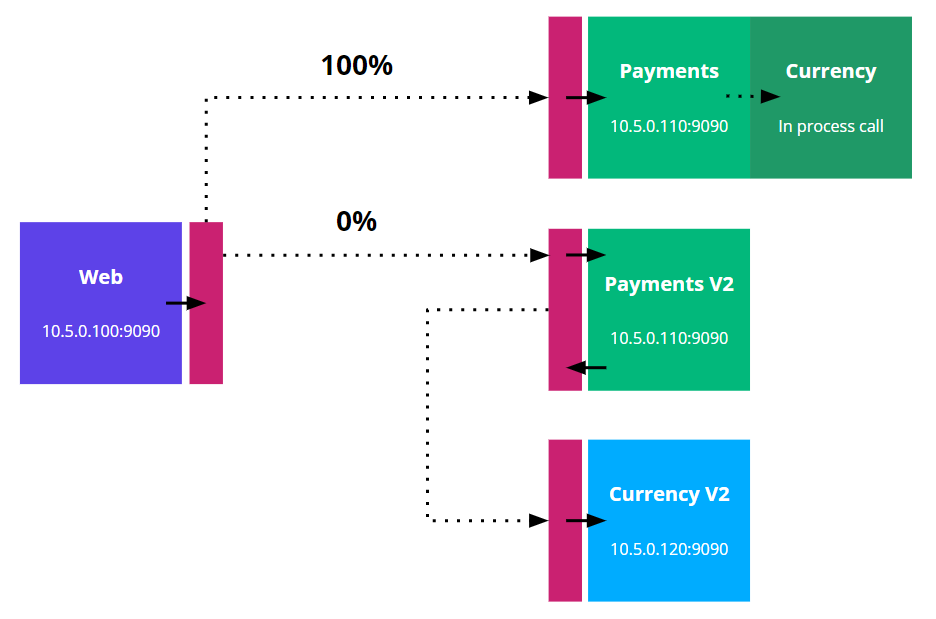
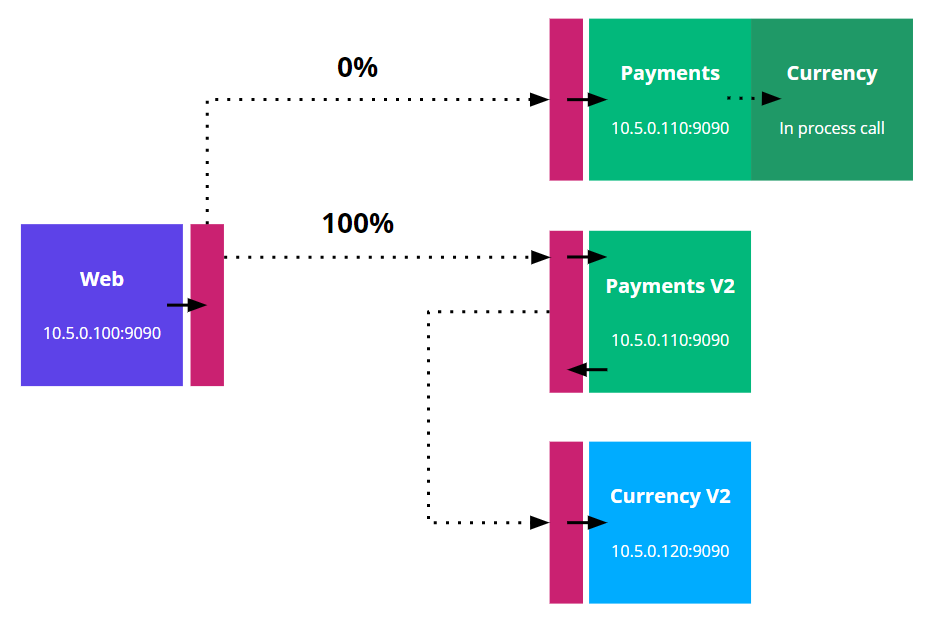
Add extra steps

diff --git a/docs/index.md b/docs/index.md
@@ -1,36 +1,223 @@
-We will need to set up the environment that will simulate Azure, containing an HCS cluster and a AKS cluster.
+---
+id: index
+title: "Moving to a Microservice World: Leveraging Consul on Azure"
+---
 
+This demo will guide you through migrating an application from a monolith to microservices, using Consul Service Mesh.
+
+# Set up the environment
+To get started, we will set up the environment that will simulate Azure, containing an HCS (HashiCorp Consul Service) cluster and an AKS (Azure Kubernetes Service) cluster.
 
 ```
 shipyard run azure
 ```
 
-Now that we have our cloud environment up and running, we can start to add our applications.
-In the initial situation we have 2 VMs running, one containing an inbound proxy called "web" and the other one containing our "payments" monolith.
+# Initial situation
+
+Now that we have our "cloud" environment up and running, we can start to add our applications.
+In the initial situation we have 2 "VMs" running, one containing an inbound proxy called "web" and the other one containing our "payments" monolith.
 The applications are configured statically, with web pointing directly to the ip address of payments.
 
+Because we want to be able to run this demo entirely on our local machine, we will be simulating VMs with fat containers.
+These Alpine containers will have 3 processes running, managed by Supervisor:
+- Application binary.
+- Consul agent, configured as a client.
+- Envoy sidecar proxy for the application.
+
+![Containers as VMs](https://github.com/eveld/hashidays/blob/master/docs/assets/fake_vm.png?raw=true)
+
+
 To spin up the two VMs we can create the resources located in the `v1` directory.
+
+![Initial Setup](https://github.com/eveld/hashidays/blob/master/docs/assets/initial_setup.png?raw=true)
 
 ```
 shipyard run v1
 ```
 
+# Consul Service Mesh 
+Remove the initial setup and replace it with a setup that uses Consul Service Mesh to do service discovery.
+This gives the additional benefit that all the traffic between our services is now encrypted through mTLS.
+
+![Consul Service Mesh](https://github.com/eveld/hashidays/blob/master/docs/assets/service_mesh.png?raw=true)
+
 ```
 shipyard destroy v1
+```
+```
 shipyard run v2
+```
 
+Set the protocol to HTTP in the service defaults for the payments service and the web service.
+```go
+Kind = "service-defaults"
+Name = "payments"
+Protocol = "http"
+```
+```
 consul config write v2/consul_service/payments_defaults.hcl
+```
+
+```go
+Kind = "service-defaults"
+Name = "web"
+Protocol = "http"
+```
+```
 consul config write v2/consul_service/web_defaults.hcl
 ```
 
+# First Microservice
+Now that we have our applications connected with a service mesh, we can start splitting off pieces of functionality into microservices.
+To start, we will take an isolated piece of functionality (the currency converter service) and turn it into a microservice.
+
+![Currency microservice](https://github.com/eveld/hashidays/blob/master/docs/assets/first_microservice.png?raw=true)
+
 ```
 shipyard run v3
-
-consul config write v3/currency_router.hcl
 ```
 
+Set the protocol to HTTP in the service defaults for the currency service, so we can make use of the L7 capabilities of Envoy.
+```go
+Kind = "service-defaults"
+Name = "currency"
+Protocol = "http"
+```
+```
+consul config write v3/consul_service/currency_defaults.hcl
+```
+
+To be sure that our currency microservice works as expected, we will expose it on a separate path. This way we can call it and test that everything functions as intended.
+
+We will route all traffic going to the payments service on path `/currency` to the new currency microservice instead.
+All other traffic should still go to the payments service, so we don't interrupt the service for our users.
+
+```
+consul config write v3/consul_service/currency_router.hcl
+```
+
+# Routing traffic
+Now that we know our new currency microservice works, we want to update the payments service to call out to our microservice instead of the in-process call.
+But we do not want all our users to be directed to the new architecture until we are sure that everything works.
+What we can do is only route requests that contain certain headers to our new services, by only changing the configuration of the service mesh.
+
+![Header based routing](https://github.com/eveld/hashidays/blob/master/docs/assets/routing_traffic.png?raw=true)
+
+First we want to make sure that all of our users will be routed to the current version of the payments service.
+We do this by configuring a `service resolver` to resolve our services, based on metadata.
+
+```go
+kind = "service-resolver"
+name = "payments"
+
+default_subset = "v1"
+
+subsets = {
+  v1 = {
+    filter = "Service.Meta.version == 1"
+  }
+  v2 = {
+    filter = "Service.Meta.version == 2"
+  }
+}
+```
+```
+consul config write v4/consul_service/payments_resolver.hcl
+```
+
+Now we can create the new version of the payments service, that makes use of the external currency service.
 ```
 shipyard run v4
-
-consul config write v4/payments_resolver.hcl
 ```
+
+```go
+kind = "service-router"
+name = "payments"
+routes = [
+  {
+    match {
+      http {
+        header = [
+          {
+            name  = "X-Group"
+            exact = "dev"
+          },
+        ]
+      }
+    }
+
+    destination {
+      service = "payments"
+      service_subset = "v2"
+    }
+  },
+]
+```
+```
+consul config write v4/consul_service/payments_router.hcl
+```
+
+# Release Canary
+
+```go
+kind = "service-splitter",
+name = "payments"
+
+splits = [
+  {
+    weight = 100,
+    service_subset = "v1"
+  },
+  {
+    weight = 0,
+    service_subset = "v2"
+  }
+]
+```
+```
+consul config write v5/consul_service/payments_splitter_100_0.hcl
+```
+
+![100% on current version](https://github.com/eveld/hashidays/blob/master/docs/assets/traffic_split_100_0.png?raw=true)
+
+```go
+kind = "service-splitter",
+name = "payments"
+
+splits = [
+  {
+    weight = 50,
+    service_subset = "v1"
+  },
+  {
+    weight = 50,
+    service_subset = "v2"
+  }
+]
+```
+```
+consul config write v5/consul_service/payments_splitter_50_50.hcl
+```
+
+![50% on current version and 50% on new version](https://github.com/eveld/hashidays/blob/master/docs/assets/traffic_split_50_50.png?raw=true)
+
+```go
+kind = "service-splitter",
+name = "payments"
+
+splits = [
+  {
+    weight = 0,
+    service_subset = "v1"
+  },
+  {
+    weight = 100,
+    service_subset = "v2"
+  }
+]
+```
+```
+consul config write v5/consul_service/payments_splitter_0_100.hcl
+```
+
+![100% on new version](https://github.com/eveld/hashidays/blob/master/docs/assets/traffic_split_0_100.png?raw=true)

diff --git a/README.md b/README.md
@@ -2,6 +2,5 @@
 title: "Moving to a Microservice World: Leveraging Consul on Azure"
 author: Erik Veld
 slug: hashidays_consul
-browser_windows: http://localhost:8080
 ---
 Hello
